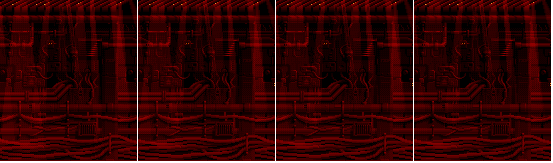
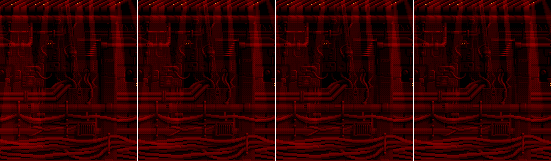
Added tunnel lights

diff --git a/Last Resort Prototype/ModuleBackground.cpp b/Last Resort Prototype/ModuleBackground.cpp
@@ -79,6 +79,14 @@ ModuleBackground::ModuleBackground()
 	lightFloor.PushBack({ 61,0,60,20 });
 	lightFloor.speed = 0.1f;
 
+	tunnelLights.PushBack({ 0,0,137,161});
+	tunnelLights.PushBack({ 138,0,137,161 });
+	tunnelLights.PushBack({ 276,0,137,161 });
+	tunnelLights.PushBack({ 414,0,137,161 });
+	tunnelLights.PushBack({ 276,0,137,161 });
+	tunnelLights.PushBack({ 138,0,137,161 });
+	tunnelLights.speed = 0.1f;
+
 	backgroundLights.PushBack({ 0,595,284,144 });
 	backgroundLights.PushBack({ 284,595,284,144 });
 	backgroundLights.PushBack({ 568,595,284,144 });
@@ -128,6 +136,7 @@ bool ModuleBackground::Start()
 	graphics = App->textures->Load("assets/background_lvl1.png");
 	graphics2 = App->textures->Load("assets/background_lvl1_extra.png");
 	graphics3 = App->textures->Load("assets/StreetLights_lvl1.png");
+	graphics4 = App->textures->Load("assets/tunnelLights.png");
 	
 	App->player->Enable();
 
@@ -146,6 +155,7 @@ bool ModuleBackground::CleanUp()
 	App->textures->Unload(graphics);
 	App->textures->Unload(graphics2);
 	App->textures->Unload(graphics3);
+	App->textures->Unload(graphics4);
 
 	//Free all audio material
 	App->audio->UnloadMus(mus); 
@@ -237,14 +247,9 @@ update_status ModuleBackground::Update()
 	App->render->Blit(graphics, 0, 0, &background, 0.75f);											// DEPTH 3
 	App->render->Blit(graphics3, 167, 136, &streetLights.GetCurrentFrame(), 0.75f);
 
-<<<<<<< HEAD
-	App->render->Blit(graphics3, 121, 217, &lightFloor.GetCurrentFrame(), 0.75f);
-=======
-
 	App->render->Blit(graphics3, 121, 217, &lightFloor.GetCurrentFrame(), 0.75f);
 
->>>>>>> 5acacdd47a00d8c9a8ed16b913c718ebc2422527
-
+	App->render->Blit(graphics4, 2051, 0, &tunnelLights.GetCurrentFrame(), 0.75f);
 
 	if (App->input->keyboard[SDL_SCANCODE_SPACE] == 1)
 		App->fade->FadeToBlack(App->background, App->stageclear, 1.5f);

diff --git a/Last Resort Prototype/ModuleBackground.h b/Last Resort Prototype/ModuleBackground.h
@@ -27,6 +27,7 @@ public:
 	SDL_Texture* graphics = nullptr;
 	SDL_Texture* graphics2 = nullptr; 
 	SDL_Texture* graphics3 = nullptr;
+	SDL_Texture* graphics4 = nullptr;
 	Mix_Music* mus = nullptr; 
 	SDL_Rect background;
 	SDL_Rect crater;
@@ -37,6 +38,7 @@ public:
 	Animation light;	
 	Animation lightNew;
 	Animation lightFloor;
+	Animation tunnelLights;
 
 	bool render_light = false;
 	bool scroll = true; 
